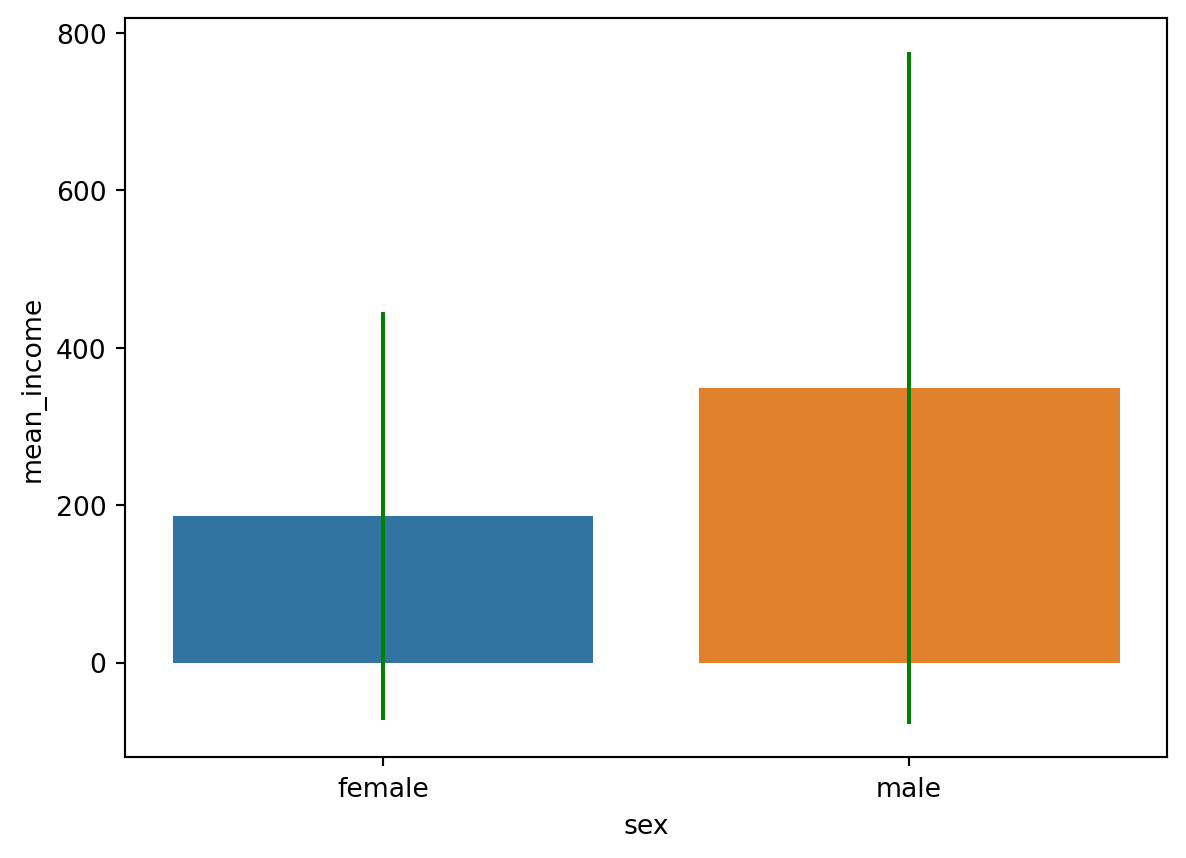
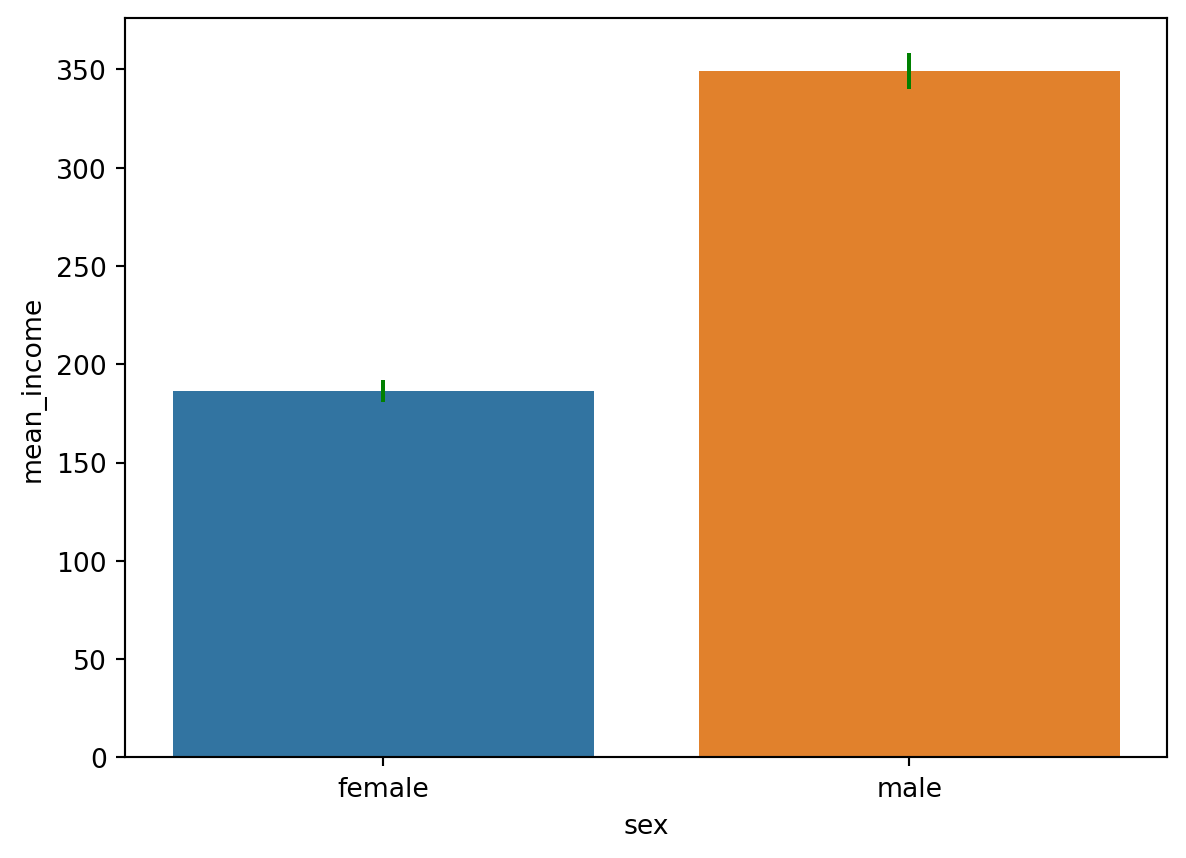
숙제 수정

diff --git a/docs/posts/hw6/hw6.html b/docs/posts/hw6/hw6.html
@@ -188,7 +188,7 @@ pre > code.sourceCode > span > a:first-child::before { text-decoration: underlin
   <li><a href="#여성-월급-테이블-남성-월급-테이블-뽑기" id="toc-여성-월급-테이블-남성-월급-테이블-뽑기" class="nav-link" data-scroll-target="#여성-월급-테이블-남성-월급-테이블-뽑기">여성-월급 테이블 / 남성-월급 테이블 뽑기</a></li>
   <li><a href="#평균-구하기" id="toc-평균-구하기" class="nav-link" data-scroll-target="#평균-구하기">평균 구하기</a></li>
   <li><a href="#표본분산-구하기" id="toc-표본분산-구하기" class="nav-link" data-scroll-target="#표본분산-구하기">표본분산 구하기</a></li>
-  <li><a href="#표준편차-구하기" id="toc-표준편차-구하기" class="nav-link" data-scroll-target="#표준편차-구하기">표준편차 구하기</a></li>
+  <li><a href="#따라서-정규분포에-들어갈-표준편차는-다음과-같이-구한다." id="toc-따라서-정규분포에-들어갈-표준편차는-다음과-같이-구한다." class="nav-link" data-scroll-target="#따라서-정규분포에-들어갈-표준편차는-다음과-같이-구한다.">따라서 정규분포에 들어갈 표준편차는 다음과 같이 구한다.</a></li>
   <li><a href="#신뢰구간-95-구하기" id="toc-신뢰구간-95-구하기" class="nav-link" data-scroll-target="#신뢰구간-95-구하기">신뢰구간 95% 구하기</a></li>
   <li><a href="#시각화-하기." id="toc-시각화-하기." class="nav-link" data-scroll-target="#시각화-하기.">시각화 하기.</a></li>
   </ul>
@@ -212,7 +212,7 @@ pre > code.sourceCode > span > a:first-child::before { text-decoration: underlin
 </div>
 <section id="패키지-불러오기" class="level1">
 <h1>패키지 불러오기</h1>
-<div id="62cb6b0c" class="cell" data-execution_count="1">
+<div id="08b1b7f5" class="cell" data-execution_count="1">
 <div class="sourceCode cell-code" id="cb1"><pre class="sourceCode python code-with-copy"><code class="sourceCode python"><span id="cb1-1"><a href="#cb1-1" aria-hidden="true" tabindex="-1"></a><span class="im">import</span> pandas <span class="im">as</span> pd</span>
 <span id="cb1-2"><a href="#cb1-2" aria-hidden="true" tabindex="-1"></a><span class="im">import</span> numpy <span class="im">as</span> np</span>
 <span id="cb1-3"><a href="#cb1-3" aria-hidden="true" tabindex="-1"></a><span class="im">import</span> seaborn <span class="im">as</span> sns</span>
@@ -222,14 +222,14 @@ pre > code.sourceCode > span > a:first-child::before { text-decoration: underlin
 </section>
 <section id="데이터-불러오기" class="level1">
 <h1>데이터 불러오기</h1>
-<div id="830cd2ac" class="cell" data-execution_count="2">
+<div id="9d010bd5" class="cell" data-execution_count="2">
 <div class="sourceCode cell-code" id="cb2"><pre class="sourceCode python code-with-copy"><code class="sourceCode python"><span id="cb2-1"><a href="#cb2-1" aria-hidden="true" tabindex="-1"></a><span class="co"># 처음 데이터는 용량이 커서 어느정도 전처리 된 데이터를 불러왔다.</span></span>
 <span id="cb2-2"><a href="#cb2-2" aria-hidden="true" tabindex="-1"></a>welfare <span class="op">=</span> pd.read_csv(<span class="st">"../../data/hw6_welfare.csv"</span>)</span></code><button title="Copy to Clipboard" class="code-copy-button"><i class="bi"></i></button></pre></div>
 </div>
 </section>
 <section id="수업-시간-때-그렸던-그래프" class="level1">
 <h1>수업 시간 때 그렸던 그래프</h1>
-<div id="4155684e" class="cell" data-execution_count="3">
+<div id="614d31bc" class="cell" data-execution_count="3">
 <div class="sourceCode cell-code" id="cb3"><pre class="sourceCode python code-with-copy"><code class="sourceCode python"><span id="cb3-1"><a href="#cb3-1" aria-hidden="true" tabindex="-1"></a>sex_income <span class="op">=</span> welfare.dropna(subset <span class="op">=</span> <span class="st">"income"</span>) <span class="op">\</span></span>
 <span id="cb3-2"><a href="#cb3-2" aria-hidden="true" tabindex="-1"></a>       .groupby(<span class="st">"sex"</span>, as_index<span class="op">=</span><span class="va">False</span>) <span class="op">\</span></span>
 <span id="cb3-3"><a href="#cb3-3" aria-hidden="true" tabindex="-1"></a>       .agg(mean_income <span class="op">=</span> (<span class="st">"income"</span>, <span class="st">"mean"</span>))</span>
@@ -255,7 +255,7 @@ pre > code.sourceCode > span > a:first-child::before { text-decoration: underlin
 </section>
 <section id="여성-월급-테이블-남성-월급-테이블-뽑기" class="level1">
 <h1>여성-월급 테이블 / 남성-월급 테이블 뽑기</h1>
-<div id="7d04cac5" class="cell" data-execution_count="4">
+<div id="cce1399f" class="cell" data-execution_count="4">
 <div class="sourceCode cell-code" id="cb5"><pre class="sourceCode python code-with-copy"><code class="sourceCode python"><span id="cb5-1"><a href="#cb5-1" aria-hidden="true" tabindex="-1"></a>female_income <span class="op">=</span> welfare <span class="op">\</span></span>
 <span id="cb5-2"><a href="#cb5-2" aria-hidden="true" tabindex="-1"></a>    .dropna(subset <span class="op">=</span> <span class="st">"income"</span>) <span class="op">\</span></span>
 <span id="cb5-3"><a href="#cb5-3" aria-hidden="true" tabindex="-1"></a>    .query(<span class="st">'sex == "female"'</span>)[[<span class="st">"sex"</span>, <span class="st">"income"</span>]]</span>
@@ -267,43 +267,45 @@ pre > code.sourceCode > span > a:first-child::before { text-decoration: underlin
 </section>
 <section id="평균-구하기" class="level1">
 <h1>평균 구하기</h1>
-<div id="34e95ab7" class="cell" data-execution_count="5">
-<div class="sourceCode cell-code" id="cb6"><pre class="sourceCode python code-with-copy"><code class="sourceCode python"><span id="cb6-1"><a href="#cb6-1" aria-hidden="true" tabindex="-1"></a>female_x_var <span class="op">=</span> female_income[<span class="st">"income"</span>].mean() <span class="co"># 186.29309576837417</span></span>
-<span id="cb6-2"><a href="#cb6-2" aria-hidden="true" tabindex="-1"></a>male_x_var <span class="op">=</span> male_income[<span class="st">"income"</span>].mean() <span class="co"># 349.03757099169945</span></span></code><button title="Copy to Clipboard" class="code-copy-button"><i class="bi"></i></button></pre></div>
+<div id="15f4048a" class="cell" data-execution_count="5">
+<div class="sourceCode cell-code" id="cb6"><pre class="sourceCode python code-with-copy"><code class="sourceCode python"><span id="cb6-1"><a href="#cb6-1" aria-hidden="true" tabindex="-1"></a>female_x_bar <span class="op">=</span> female_income[<span class="st">"income"</span>].mean() <span class="co"># 186.29309576837417</span></span>
+<span id="cb6-2"><a href="#cb6-2" aria-hidden="true" tabindex="-1"></a>male_x_bar <span class="op">=</span> male_income[<span class="st">"income"</span>].mean() <span class="co"># 349.03757099169945</span></span></code><button title="Copy to Clipboard" class="code-copy-button"><i class="bi"></i></button></pre></div>
 </div>
 </section>
 <section id="표본분산-구하기" class="level1">
 <h1>표본분산 구하기</h1>
-<div id="4474f5c0" class="cell" data-execution_count="6">
+<div id="03d66f85" class="cell" data-execution_count="6">
 <div class="sourceCode cell-code" id="cb7"><pre class="sourceCode python code-with-copy"><code class="sourceCode python"><span id="cb7-1"><a href="#cb7-1" aria-hidden="true" tabindex="-1"></a><span class="co"># sum((female_income["income"] - female_income_mean)**2) / (len(female_income)-1)</span></span>
 <span id="cb7-2"><a href="#cb7-2" aria-hidden="true" tabindex="-1"></a>female_s_2 <span class="op">=</span> female_income[<span class="st">"income"</span>].var() <span class="co"># 17439.157372096437</span></span>
 <span id="cb7-3"><a href="#cb7-3" aria-hidden="true" tabindex="-1"></a>male_s_2 <span class="op">=</span> male_income[<span class="st">"income"</span>].var() <span class="co"># 47463.96187451692</span></span></code><button title="Copy to Clipboard" class="code-copy-button"><i class="bi"></i></button></pre></div>
 </div>
+<p>정규분포는 다음과 같이 표시한다. X_bar ~ N(mu, sigma^2 / n)</p>
+<p>모평균과 모 표준편차를 모르므로 다음과 같이 나타낸다 X_bar ~= N(x_bar, S^2 / n)</p>
 </section>
-<section id="표준편차-구하기" class="level1">
-<h1>표준편차 구하기</h1>
-<div id="64f58be0" class="cell" data-execution_count="7">
-<div class="sourceCode cell-code" id="cb8"><pre class="sourceCode python code-with-copy"><code class="sourceCode python"><span id="cb8-1"><a href="#cb8-1" aria-hidden="true" tabindex="-1"></a>female_sigma <span class="op">=</span> np.sqrt(female_s_2) <span class="co"># 132.05740180730666</span></span>
-<span id="cb8-2"><a href="#cb8-2" aria-hidden="true" tabindex="-1"></a>male_sigma <span class="op">=</span> np.sqrt(male_s_2) <span class="co"># 217.86225435930135</span></span></code><button title="Copy to Clipboard" class="code-copy-button"><i class="bi"></i></button></pre></div>
+<section id="따라서-정규분포에-들어갈-표준편차는-다음과-같이-구한다." class="level1">
+<h1>따라서 정규분포에 들어갈 표준편차는 다음과 같이 구한다.</h1>
+<div id="134ad7a7" class="cell" data-execution_count="7">
+<div class="sourceCode cell-code" id="cb8"><pre class="sourceCode python code-with-copy"><code class="sourceCode python"><span id="cb8-1"><a href="#cb8-1" aria-hidden="true" tabindex="-1"></a>female_sigma <span class="op">=</span> np.sqrt(female_s_2) <span class="op">/</span> np.sqrt(<span class="bu">len</span>(female_income)<span class="op">-</span><span class="dv">1</span>) <span class="co"># 2.78773393717896</span></span>
+<span id="cb8-2"><a href="#cb8-2" aria-hidden="true" tabindex="-1"></a>male_sigma <span class="op">=</span> np.sqrt(male_s_2) <span class="op">/</span> np.sqrt(<span class="bu">len</span>(female_income)<span class="op">-</span><span class="dv">1</span>) <span class="co"># 4.599075794281872</span></span></code><button title="Copy to Clipboard" class="code-copy-button"><i class="bi"></i></button></pre></div>
 </div>
 </section>
 <section id="신뢰구간-95-구하기" class="level1">
 <h1>신뢰구간 95% 구하기</h1>
-<div id="f7c403d1" class="cell" data-execution_count="8">
-<div class="sourceCode cell-code" id="cb9"><pre class="sourceCode python code-with-copy"><code class="sourceCode python"><span id="cb9-1"><a href="#cb9-1" aria-hidden="true" tabindex="-1"></a>female_025 <span class="op">=</span> norm.ppf(<span class="fl">0.025</span>, loc <span class="op">=</span> female_x_var, scale <span class="op">=</span> female_sigma)</span>
-<span id="cb9-2"><a href="#cb9-2" aria-hidden="true" tabindex="-1"></a><span class="co"># -72.53465566588156</span></span>
-<span id="cb9-3"><a href="#cb9-3" aria-hidden="true" tabindex="-1"></a>female_975 <span class="op">=</span> norm.ppf(<span class="fl">0.975</span>, loc <span class="op">=</span> female_x_var, scale <span class="op">=</span> female_sigma)</span>
-<span id="cb9-4"><a href="#cb9-4" aria-hidden="true" tabindex="-1"></a><span class="co"># 445.1208472026299</span></span>
+<div id="101d4494" class="cell" data-execution_count="8">
+<div class="sourceCode cell-code" id="cb9"><pre class="sourceCode python code-with-copy"><code class="sourceCode python"><span id="cb9-1"><a href="#cb9-1" aria-hidden="true" tabindex="-1"></a>female_025 <span class="op">=</span> norm.ppf(<span class="fl">0.025</span>, loc <span class="op">=</span> female_x_bar, scale <span class="op">=</span> female_sigma)</span>
+<span id="cb9-2"><a href="#cb9-2" aria-hidden="true" tabindex="-1"></a><span class="co"># 180.82923765302337</span></span>
+<span id="cb9-3"><a href="#cb9-3" aria-hidden="true" tabindex="-1"></a>female_975 <span class="op">=</span> norm.ppf(<span class="fl">0.975</span>, loc <span class="op">=</span> female_x_bar, scale <span class="op">=</span> female_sigma)</span>
+<span id="cb9-4"><a href="#cb9-4" aria-hidden="true" tabindex="-1"></a><span class="co"># 191.75695388372498</span></span>
 <span id="cb9-5"><a href="#cb9-5" aria-hidden="true" tabindex="-1"></a></span>
-<span id="cb9-6"><a href="#cb9-6" aria-hidden="true" tabindex="-1"></a>male_025 <span class="op">=</span> norm.ppf(<span class="fl">0.025</span>, loc <span class="op">=</span> male_x_var, scale <span class="op">=</span> male_sigma)</span>
-<span id="cb9-7"><a href="#cb9-7" aria-hidden="true" tabindex="-1"></a><span class="co"># -77.96460114323565</span></span>
-<span id="cb9-8"><a href="#cb9-8" aria-hidden="true" tabindex="-1"></a>male_975 <span class="op">=</span> norm.ppf(<span class="fl">0.975</span>, loc <span class="op">=</span> male_x_var, scale <span class="op">=</span> male_sigma)</span>
-<span id="cb9-9"><a href="#cb9-9" aria-hidden="true" tabindex="-1"></a><span class="co"># 776.0397431266344</span></span></code><button title="Copy to Clipboard" class="code-copy-button"><i class="bi"></i></button></pre></div>
+<span id="cb9-6"><a href="#cb9-6" aria-hidden="true" tabindex="-1"></a>male_025 <span class="op">=</span> norm.ppf(<span class="fl">0.025</span>, loc <span class="op">=</span> male_x_bar, scale <span class="op">=</span> male_sigma)</span>
+<span id="cb9-7"><a href="#cb9-7" aria-hidden="true" tabindex="-1"></a><span class="co"># 340.023548072737</span></span>
+<span id="cb9-8"><a href="#cb9-8" aria-hidden="true" tabindex="-1"></a>male_975 <span class="op">=</span> norm.ppf(<span class="fl">0.975</span>, loc <span class="op">=</span> male_x_bar, scale <span class="op">=</span> male_sigma)</span>
+<span id="cb9-9"><a href="#cb9-9" aria-hidden="true" tabindex="-1"></a><span class="co"># 358.0515939106619</span></span></code><button title="Copy to Clipboard" class="code-copy-button"><i class="bi"></i></button></pre></div>
 </div>
 </section>
 <section id="시각화-하기." class="level1">
 <h1>시각화 하기.</h1>
-<div id="6557f773" class="cell" data-execution_count="9">
+<div id="56127488" class="cell" data-execution_count="9">
 <div class="sourceCode cell-code" id="cb10"><pre class="sourceCode python code-with-copy"><code class="sourceCode python"><span id="cb10-1"><a href="#cb10-1" aria-hidden="true" tabindex="-1"></a>sex_income <span class="op">=</span> welfare.dropna(subset <span class="op">=</span> <span class="st">"income"</span>) <span class="op">\</span></span>
 <span id="cb10-2"><a href="#cb10-2" aria-hidden="true" tabindex="-1"></a>       .groupby(<span class="st">"sex"</span>, as_index<span class="op">=</span><span class="va">False</span>) <span class="op">\</span></span>
 <span id="cb10-3"><a href="#cb10-3" aria-hidden="true" tabindex="-1"></a>       .agg(mean_income <span class="op">=</span> (<span class="st">"income"</span>, <span class="st">"mean"</span>))</span>
@@ -325,6 +327,7 @@ pre > code.sourceCode > span > a:first-child::before { text-decoration: underlin
 <pre><code>&lt;Figure size 672x480 with 0 Axes&gt;</code></pre>
 </div>
 </div>
+<p>질문: 월급 평균의 95% 신뢰구간은 여기서부터 여기다~ 라고 할 수 있는건 알겠다. 그렇다면 이 말의 실질적인 의미는 “우리가 표본을 통해서 구한 신뢰구간 안에 모평균이 들어갈 확률이 95%이다.” 라는 것인가? 물어봐야겠다.</p>
 
 
 </section>

diff --git a/docs/blog.html b/docs/blog.html
@@ -198,7 +198,7 @@ window.Quarto = {
 
 <div class="quarto-listing quarto-listing-container-default" id="listing-listing">
 <div class="list quarto-listing-default">
-<div class="quarto-post image-right" data-index="0" data-categories="homework" data-listing-date-sort="1722265200000" data-listing-file-modified-sort="1722347458977" data-listing-date-modified-sort="NaN" data-listing-reading-time-sort="2" data-listing-word-count-sort="272">
+<div class="quarto-post image-right" data-index="0" data-categories="homework" data-listing-date-sort="1722265200000" data-listing-file-modified-sort="1722506896040" data-listing-date-modified-sort="NaN" data-listing-reading-time-sort="2" data-listing-word-count-sort="328">
 <div class="thumbnail">
 <p><a href="./posts/hw6/hw6.html" class="no-external"></a></p><a href="./posts/hw6/hw6.html" class="no-external">
 <p class="card-img-top"><img src="img\숙제6.png"  class="thumbnail-image card-img"/></p>
